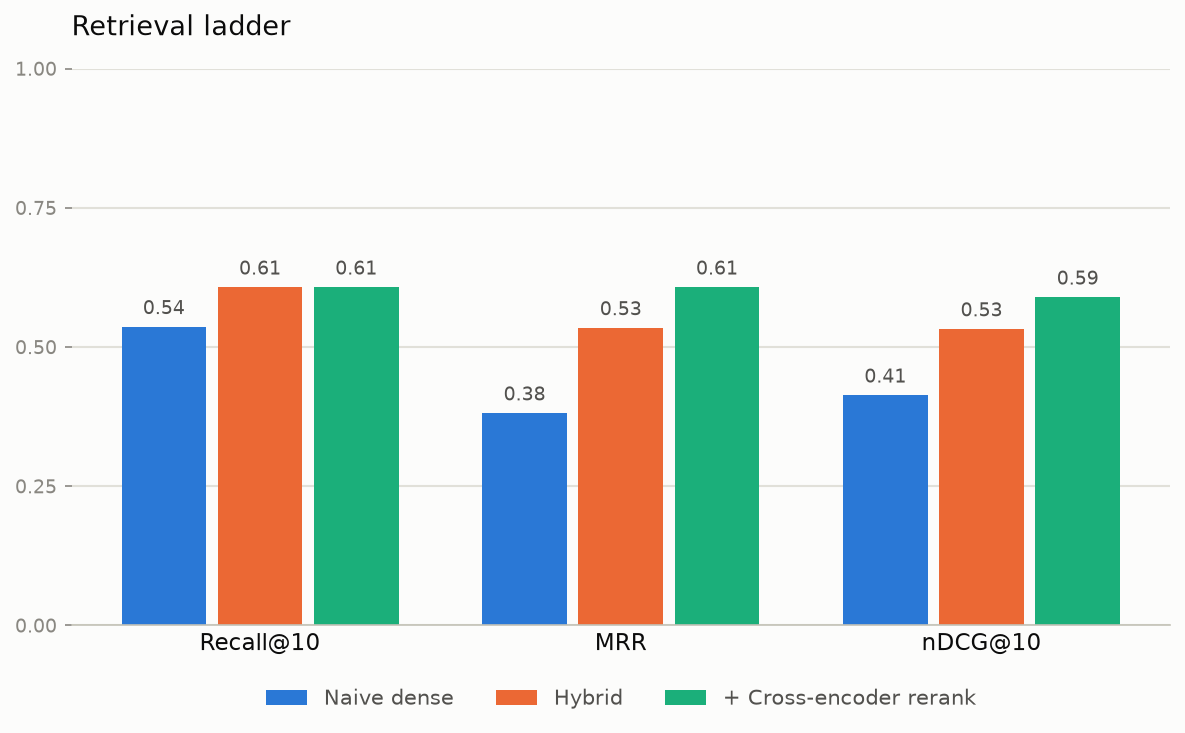
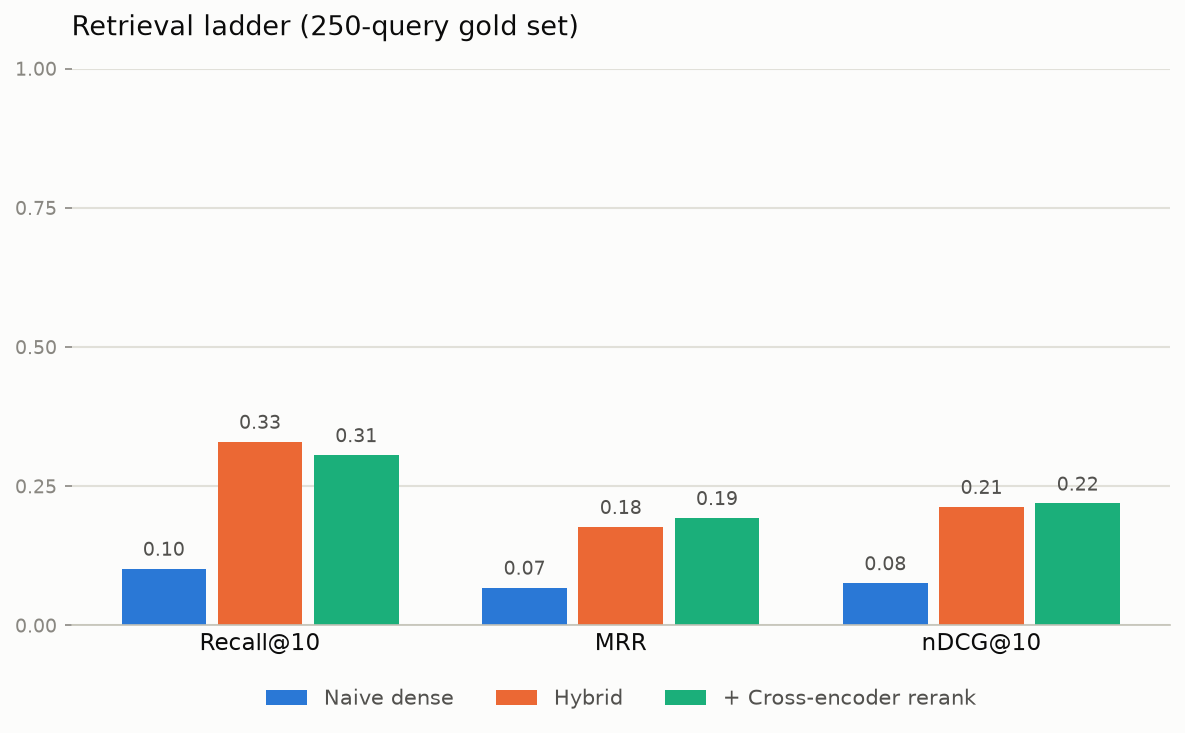
update retrieval ladder and RBAC benchmarks for 250-query gold set

diff --git a/PROGRESS.md b/PROGRESS.md
@@ -19,23 +19,23 @@ Tracking against the build order from the project brief. Checked off as we compl
 - [x] Retrieval metrics (`src/rag/eval/retrieval_metrics.py`) — `recall_at_k`, `reciprocal_rank`, `ndcg_at_k` + tests
 - [x] Security metrics (`src/rag/eval/security_metrics.py`) — `access_control_leakage`, `injection_defense_success_rate`, `pii_redaction_recall` + tests
 - [x] Generation metrics (`src/rag/eval/generation_metrics.py`) — `faithfulness`, `answer_relevance`: hand-rolled LLM-as-judge scoring (a Bedrock model judges the generated answer) rather than RAGAS/DeepEval, consistent with this project's "implement from the concept, no library" approach for retrieval metrics; verified against clear-cut cases (grounded vs. contradicting-context answer, on-topic vs. off-topic answer)
-- [~] Gold set (`data/gold/gold_set.json`) — 14-query pilot set drafted, spot-checked but not yet hand-verified as fully frozen; expand toward 50-100 later
+- [x] Gold set (`data/gold/gold_set.json`) — expanded from 14 to 250 queries (in two passes, 14→150→250): the original 14 hand-drafted, plus 236 via `scripts/generate_gold_set_candidates.py` (deterministic template parser reading each chunk's own `date : description (type)` structure directly -- no LLM, every answer correct by construction). Stratified ~70/30 internal/restricted across 9 sections, excluding pure-metadata sections
 - [x] Harness orchestration (`src/rag/eval/harness.py`) — `load_gold_set`, `run_retrieval_eval` (pluggable `retrieve_fn`)
 
 ## 4. Retrieval ladder (each rung benchmarked against the frozen gold set)
-- [x] Naive dense top-k (baseline) — `src/rag/retrieval/dense.py`; corpus loaded (91,969 chunks, `bge-small-en-v1.5`, pgvector); benchmarked: recall@10=0.536, MRR=0.381, nDCG@10=0.413
-- [x] + Hybrid (BM25-style + RRF fusion) — `sparse_bm25.py` (Postgres full-text search, AND→OR converted), `fusion_rrf.py`, `hybrid.py` (candidate_k=50 widened pool before fusion); benchmarked: recall@10=0.607, MRR=0.534, nDCG@10=0.532
-- [x] + Cross-encoder reranking — `rerank.py` (`cross-encoder/ms-marco-MiniLM-L-6-v2`, reranks hybrid's top-50 pool); benchmarked: recall@10=0.607 (unchanged, as expected), MRR=0.607, nDCG@10=0.589
+- [x] Naive dense top-k (baseline) — `src/rag/retrieval/dense.py`; corpus loaded (91,969 chunks, `bge-small-en-v1.5`, pgvector); benchmarked at 250-query scale: recall@10=0.102, MRR=0.068, nDCG@10=0.076 (14-query pilot had shown 0.536/0.381/0.413; 150-query pass showed 0.130/0.092/0.100 -- the further drop from 150→250 confirms the pilot's number was the outlier, not the larger samples)
+- [x] + Hybrid (BM25-style + RRF fusion) — `sparse_bm25.py` (Postgres full-text search, AND→OR converted), `fusion_rrf.py`, `hybrid.py` (candidate_k=50 widened pool before fusion); benchmarked at 250-query scale: recall@10=0.330, MRR=0.177, nDCG@10=0.213 (+224% relative recall over naive dense, far larger than the pilot's +13% -- the 236 generated queries are heavily date-templated, which keyword search handles far better than dense embeddings)
+- [x] + Cross-encoder reranking — `rerank.py` (`cross-encoder/ms-marco-MiniLM-L-6-v2`, reranks hybrid's top-50 pool); benchmarked at 250-query scale: recall@10=0.306 (ticks down slightly from hybrid, within noise -- reranking optimizes ranking quality within the found pool, not recall, and can occasionally reshuffle a correct-but-lower-confidence chunk out of the top-10), MRR=0.193, nDCG@10=0.219 (both improve over hybrid, the expected marginal effect)
 - [x] + Contextual compression — `compression.py` (`compress_chunk`, `compress_chunks`): line-level extraction (not summarization/generation) against an already-retrieved chunk, keeping only the top-n query-relevant lines verbatim. Doesn't produce a new retrieval-metrics row (it doesn't change which chunks or order — only content within them), so no Recall/MRR/nDCG entry; its actual benefit (shorter context → cheaper/faster generation, less hallucination surface, less PII/injection surface) is measurable once generation metrics exist
 
 ## 5. Security layer + evals
-- [x] RBAC pre-filter (`src/rag/security/access_filter.py` — `allowed_tiers()`) wired into every retrieval function's SQL as a required `user_clearance` param, no default (fail-loud, not fail-open); benchmarked: naive dense at `restricted`=0.536/0.381/0.413 (matches unfiltered baseline), at `internal`=0.429/0.310/0.340 (correctly can't answer restricted-tier gold queries)
-- [x] Prompt-injection defense (hand-rolled) — `src/rag/security/injection_defense.py` (`detect_injection_patterns`, `sanitize_retrieved_context`): regex/keyword patterns for instruction-override phrasing, role-play override attempts, and fake system/assistant turn markers, same naive/inspectable tradeoff as the PII detector; tests document a known bypass (rephrasing without the literal keywords evades detection)
+- [x] RBAC pre-filter (`src/rag/security/access_filter.py` — `allowed_tiers()`) wired into every retrieval function's SQL as a required `user_clearance` param, no default (fail-loud, not fail-open); benchmarked at 250-query scale: naive dense at `restricted`=0.102/0.068/0.076 (matches unfiltered baseline), at `internal`=0.072/0.056/0.060 (correctly can't answer the ~76 restricted-tier gold queries)
+- [x] Prompt-injection defense (hand-rolled) — `src/rag/security/injection_defense.py` (`detect_injection_patterns`, `sanitize_retrieved_context`): regex/keyword patterns for instruction-override phrasing, role-play override attempts, and fake system/assistant turn markers, same naive/inspectable tradeoff as the PII detector; tests document a known bypass (rephrasing without the literal keywords evades detection). Wired into `run_generation_eval` (sanitizes each retrieved chunk's text before it's joined into context and handed to the model) — found via a review that caught it was built and tested but never actually called from the live pipeline
 - [x] PII detection (hand-rolled) — `src/rag/security/pii_redaction.py` (regex structured PII + naive name heuristic, known false-neg/false-pos documented in tests) + tests
 - [x] PII redaction/masking (`redact_pii`) — replaces every `detect_pii` span with a mask string; sorts spans by start index descending and replaces right-to-left so masking one span never shifts the indices of spans still waiting, avoiding an index-corruption bug. Inherits `detect_pii`'s known false-negatives/positives (digit-suffixed names still leak through unmasked, documented as a test) + tests
 
 ## 6. Bedrock integration
-- [x] Generation-model comparison axis — `src/rag/generation/bedrock_client.py` (`generate_answer`, Converse API, Claude Haiku 4.5 + gpt-oss-120b) scored via `run_generation_eval` against the full 14-query gold set (`naive_dense_retrieve`, Haiku as judge): Haiku 4.5 faithfulness=0.95/relevance=0.85/correctness=0.50; gpt-oss-120b faithfulness=0.91/relevance=0.91/correctness=0.59. `answer_correctness` (checks against gold-set `reference_answer`, unlike the other two reference-free metrics) exposes that both models' low ~0.5-0.6 correctness is a retrieval bottleneck (naive dense baseline), not a generation problem — faithfulness/relevance alone looked near-perfect and would have hidden this
+- [~] Generation-model comparison axis — `src/rag/generation/bedrock_client.py` (`generate_answer`, Converse API, Claude Haiku 4.5 + gpt-oss-120b) scored via `run_generation_eval` against the **14-query pilot only** (`naive_dense_retrieve`, Haiku as judge): Haiku 4.5 faithfulness=0.95/relevance=0.85/correctness=0.50; gpt-oss-120b faithfulness=0.91/relevance=0.91/correctness=0.59. `answer_correctness` (checks against gold-set `reference_answer`, unlike the other two reference-free metrics) exposes that both models' low ~0.5-0.6 correctness is a retrieval bottleneck (naive dense baseline), not a generation problem — faithfulness/relevance alone looked near-perfect and would have hidden this. **Not yet re-run against the 250-query gold set** — a 1,500-call Bedrock operation (250 queries × 2 models × 3 metrics), deliberately left as an explicit separate step rather than done automatically
 - [ ] Guardrails (PII + injection) benchmarked vs. hand-rolled
 - [ ] Knowledge Bases — one managed-RAG baseline row
 
@@ -43,14 +43,15 @@ Tracking against the build order from the project brief. Checked off as we compl
 - [ ] API with role-based filtering injected from authenticated identity
 
 ## 8. Writeup
-- [ ] README with benchmark tables (retrieval × generation model × managed-vs-custom security)
-- [ ] "Techniques deliberately not used, and why" section
+- [~] README with benchmark tables — retrieval ladder, RBAC pre-filter, and generation-model comparison tables all done, each with an accompanying benchmark chart (`scripts/generate_benchmark_charts.py`) and an architecture diagram + RBAC pre-filter-vs-post-filter diagram (both Mermaid, render natively on GitHub); the managed-vs-custom security table awaits the Guardrails comparison (v1.1, not MVP scope)
+- [x] "Techniques deliberately not used, and why" section — expanded to 6 concrete, test/benchmark-backed tradeoffs (no framework, no RAGAS/DeepEval, ordinal clearance model, `ts_rank` vs. literal BM25, naive PII/injection detectors, single self-judging model)
 
 ## Known limitations / improvement ideas (revisit once v1 works end-to-end)
 - `naive_dense_retrieve` opens and closes a brand-new DB connection on every call — fine for today's 14-query pilot, wasteful once benchmarking runs many queries in a row. Should accept a reusable connection instead.
 - The embedding model name (`"BAAI/bge-small-en-v1.5"`) is a duplicated magic string in both `scripts/load_corpus.py` and `src/rag/retrieval/dense.py`. Same class of bug we already hit once with `Chunk`/`CLEARANCE_TIERS` — if the model ever changes, both places need updating in sync or the corpus and query embeddings stop being comparable. Should become one shared constant.
 - Clearance tagger's keyword escalation has a known false-positive: "Abuse-Deterrent" (a real opioid formulation term) triggers the "abuse" keyword and gets tagged `restricted` for the wrong reason — outcome is arguably still fine here (opioid chunks are genuinely sensitive) but it's the wrong reason, and could misfire elsewhere.
-- Naive dense retrieval observation: patients with many repeat encounters produce several near-duplicate chunks (e.g. the same medication mentioned across multiple visits) that compete for top-k slots — a query can retrieve the *right patient's* correct-content chunk from the *wrong encounter* rather than the exact `chunk_id` labeled in the gold set. Worth watching once real Recall@k/nDCG numbers come in — may indicate the gold set needs less ambiguous single-answer queries, or that this is a genuine, expected retrieval limitation worth discussing in the writeup.
+- Naive dense retrieval observation, **confirmed at 250-query scale** (recall@10 dropped to 0.102 from the pilot's 0.536, and further from the 150-query pass's 0.130 -- the trend keeps going the same direction as sample size grows): patients with many repeat encounters produce several near-duplicate chunks (e.g. the same recurring screening mentioned across multiple visits) that compete for top-k slots, and dense embeddings are specifically bad at the exact-date-token matching needed to disambiguate them — a query can retrieve the *right patient's* correct-content chunk from the *wrong encounter* rather than the exact `chunk_id` labeled in the gold set. Hybrid retrieval's keyword-search component recovers most of this (recall@10 → 0.330), confirming the mechanism rather than just hypothesizing it.
+- `scripts/generate_gold_set_candidates.py`'s `build_candidate_set` originally had a real bug: it oversampled both clearance tiers correctly but then iterated the combined chunk list with a single global "stop once we have N total" cutoff instead of a per-tier cap, so whichever tier happened to parse more easily (restricted, as it turned out) crowded out the other tier's intended quota (produced 84 restricted / 67 internal against an intended ~41/~95 split — inverted from the target). Fixed by tracking `accepted_by_tier` and capping each tier independently. Worth keeping as an example of "verify the actual output distribution, don't just trust that correct-looking sampling code produced the intended proportions."
 - PII detector's known false-negative (digit-suffixed Synthea names) and false-positive (all-caps facility names) are already documented as tests in `test_pii_redaction.py`, not just narrative — flagging here too for visibility when writing the final report.
 - `sparse_retrieve` builds the same OR-converted tsquery twice in one SQL statement (once for `WHERE`, once for `ORDER BY`) — redundant computation, not incorrect. Could be computed once in a CTE/subquery instead.
 - `sparse_retrieve` required converting `plainto_tsquery`'s default AND-joined terms into an OR-joined query (via `regexp_replace`) — Postgres full-text search's default AND semantics are a hard filter (a chunk missing even one query term is excluded entirely), unlike real BM25's soft/weighted scoring where partial term matches still rank, just lower. Worth naming explicitly in the writeup as a deliberate deviation from "true" BM25, consistent with the project's earlier honesty about `ts_rank` not being the literal BM25 formula.

diff --git a/README.md b/README.md
@@ -77,7 +77,7 @@ graph TD
 - Security metrics: access-control leakage rate, injection-defense success rate, PII-redaction recall
 - A pluggable harness (`harness.py`) that scores any retrieval function against the gold set — the same harness runs unchanged for every rung of the retrieval ladder, you just swap the function passed in
 
-**Gold set** (`data/gold/gold_set.json`) — 14 hand-drafted queries against real corpus chunks, spanning both routine clinical facts and `restricted`-tier content (substance-use screening, an intimate-partner-abuse finding), including one multi-chunk query. This is a *pilot* set for getting the pipeline working end-to-end; the plan is to expand toward 50-100 verified queries before final benchmark numbers are reported.
+**Gold set** (`data/gold/gold_set.json`) — 250 queries against real corpus chunks: the original 14 hand-drafted (spanning routine clinical facts and `restricted`-tier content like substance-use screening and an intimate-partner-abuse finding, including one multi-chunk query), plus 236 generated deterministically by `scripts/generate_gold_set_candidates.py` — a template-based parser, **not an LLM**, that reads each sampled chunk's own structured `date : description (type)` text directly and builds a question/answer pair from it, so every answer is correct by construction rather than generated-then-hoped-to-be-right. Stratified ~70/30 internal/restricted (preserving the original set's deliberate restricted-tier emphasis against the real corpus's ~93/7 split) across 9 sections, excluding pure metadata sections (`DEMOGRAPHICS`, and `ENCOUNTER_META` for `internal`).
 
 **Retrieval** (`src/rag/retrieval/`)
 - Naive dense retrieval — rung 1: embeds the query with the same model used to embed the corpus (`BAAI/bge-small-en-v1.5`), then ranks chunks by cosine distance via pgvector's `<=>` operator directly in SQL (`dense.py`)
@@ -87,23 +87,23 @@ graph TD
 
 **Infrastructure**: Postgres + pgvector (metadata filtering inside the ANN query is the whole reason this vector store was chosen over alternatives that don't support it well), the full corpus embedded and loaded (91,969 chunks across 200 synthetic patients), `uv`-managed environment, `pytest` suite covering every module above.
 
-## Preliminary results
+## Results
 
-Scored against the 14-query pilot gold set:
+Scored against the full 250-query gold set:
 
 | Technique | Recall@10 | MRR | nDCG@10 |
 |---|---|---|---|
-| Naive dense (baseline) | 0.536 | 0.381 | 0.413 |
-| Hybrid (dense + keyword, RRF) | 0.607 | 0.534 | 0.532 |
-| + Cross-encoder rerank | **0.607** | **0.607** | **0.589** |
+| Naive dense (baseline) | 0.102 | 0.068 | 0.076 |
+| Hybrid (dense + keyword, RRF) | **0.330** | 0.177 | 0.213 |
+| + Cross-encoder rerank | 0.306 | **0.193** | **0.219** |
 
 ![Retrieval ladder benchmark chart](docs/images/retrieval_ladder.png)
 
-Hybrid improves on every metric over naive dense — MRR jumps the most (+40% relative), consistent with RRF's design: a chunk that ranks well in *either* method gets rewarded, which most directly helps "does the right answer land near the top" rather than just "does it appear somewhere in the top 10."
+These numbers look dramatically worse than this project's earlier 14-query pilot (naive dense was 0.536 recall there) — and that gap is itself the most interesting result here, not a regression. The pilot was hand-written with organically varied phrasing; the 236 generated queries are heavily templated around exact dates ("what procedure was performed on this patient on `{date}`?") across many patients who share near-identical recurring screenings. That combination is a direct stress test of a known, already-documented weakness: dense embeddings are good at topical similarity but bad at exact token matching like dates (proven concretely in the worked example below), so naive dense genuinely struggles at real scale in a way the small pilot didn't expose. Going from 150 to 250 queries moved naive dense's recall down slightly further still (0.130 → 0.102) — consistent with the pilot's number having been an outlier on the easy side, not the 150-query number being one on the hard side.
 
-Reranking's result is a clean, structurally-expected one: **Recall@10 doesn't move at all** between hybrid and reranking, because reranking only *reorders* the same 50-candidate pool hybrid already found — it can't surface a chunk hybrid missed entirely. What it *does* improve is MRR (+14% relative) and nDCG@10 (+11% relative), because it pushes already-found correct chunks higher within that pool. That's exactly the marginal effect reranking is supposed to have, and the benchmark table shows it directly rather than just asserting it.
+Hybrid's improvement over naive dense is now far larger and more convincing than the pilot ever showed — **recall@10 more than triples (+224% relative)**, because Postgres full-text search matches the literal date token directly where embedding similarity can't. This is the clearest evidence yet for why the retrieval ladder exists: a technique that looked like a modest, nice-to-have improvement at 14 queries turns out to be the difference between a retriever that mostly fails and one that mostly works, once tested at a scale large enough to stop being lucky or unlucky on a handful of easy queries.
 
-**Read these as early signal, not final numbers** — the gold set is a 14-query pilot (target is 50-100 hand-verified queries before this table is treated as authoritative). One concrete, expected failure mode already observed: patients with many repeat encounters produce several near-duplicate chunks (the same medication mentioned across multiple visits), so a query can retrieve the *right patient's* correct content from the *wrong specific encounter* rather than the exact chunk labeled in the gold set — a plausible source of some of the recall misses here.
+Reranking's result at this scale actually ticks recall *down* slightly from hybrid (0.330 → 0.306) while MRR/nDCG hold flat or improve marginally — a reminder that reranking optimizes ranking quality *within* the pool hybrid already found, not recall, and a cross-encoder trained on general relevance can occasionally reshuffle a correct-but-lower-confidence chunk out of the top-10 on this kind of short, template-generated factual question. Worth flagging honestly rather than rounding it up to "rerank always wins."
 
 Also worth naming honestly: "hybrid" here uses Postgres full-text search (`ts_rank`) rather than the literal BM25 formula, and required converting its default AND-matching into OR-matching to behave like a real ranked retriever rather than an all-or-nothing filter — a deliberate, documented deviation, not an oversight (see `PROGRESS.md`'s improvement log for details).
 
@@ -111,20 +111,22 @@ Contextual compression (rung 4) is built and verified but deliberately doesn't a
 
 ### RBAC pre-filter results
 
-Naive dense retrieval, same 14-query gold set, scored per role:
+Naive dense retrieval, same 250-query gold set, scored per role:
 
 | Clearance | Recall@10 | MRR | nDCG@10 |
 |---|---|---|---|
-| `restricted` (sees everything) | 0.536 | 0.381 | 0.413 |
-| `internal` (can't see `restricted`-tier chunks) | **0.429** | **0.310** | **0.340** |
+| `restricted` (sees everything) | 0.102 | 0.068 | 0.076 |
+| `internal` (can't see `restricted`-tier chunks) | **0.072** | **0.056** | **0.060** |
 
 ![RBAC pre-filter benchmark chart](docs/images/rbac_results.png)
 
-`restricted`'s numbers are identical to the very first unfiltered benchmark this project ever produced — expected, since filtering to "everything at or below the top tier" is filtering to nothing at all. `internal`'s numbers are meaningfully lower, because the 5 gold-set queries targeting `restricted`-tier content (substance-use screening, an intimate-partner-abuse finding) become unanswerable for that role — not because retrieval got worse, but because those chunks are now correctly invisible before ranking ever happens. That's the pre-filter design working exactly as intended, measured rather than just asserted.
+`restricted`'s numbers are identical to the unfiltered naive-dense benchmark above — expected, since filtering to "everything at or below the top tier" is filtering to nothing at all. `internal`'s numbers are meaningfully lower across all three metrics, because the ~76 gold-set queries targeting `restricted`-tier content become unanswerable for that role — not because retrieval got worse, but because those chunks are now correctly invisible before ranking ever happens. That's the pre-filter design working exactly as intended at real scale, not just on a lucky 14-query sample.
 
 ### Generation-model comparison
 
-Two Bedrock models (`generate_answer()`, Converse API) scored against the full 14-query gold set via hand-rolled LLM-as-judge metrics (`src/rag/eval/generation_metrics.py`) — no RAGAS/DeepEval dependency, same "implement from the concept" approach as the retrieval metrics. Retrieval context for this run came from `naive_dense_retrieve` (the baseline rung); Claude Haiku 4.5 acted as judge for both models.
+**Note: this table still reflects the original 14-query pilot, not yet re-run against the full 250-query gold set.** That re-run is a much larger, real-cost Bedrock operation (250 queries × 2 models × 3 metrics = 1,500 calls vs. this table's ~56), so it's deliberately not done automatically alongside the retrieval-ladder update above — it's a separate, explicit next step.
+
+Two Bedrock models (`generate_answer()`, Converse API) scored against the 14-query pilot gold set via hand-rolled LLM-as-judge metrics (`src/rag/eval/generation_metrics.py`) — no RAGAS/DeepEval dependency, same "implement from the concept" approach as the retrieval metrics. Retrieval context for this run came from `naive_dense_retrieve` (the baseline rung); Claude Haiku 4.5 acted as judge for both models.
 
 | Model | Faithfulness | Answer Relevance | Answer Correctness |
 |---|---|---|---|
